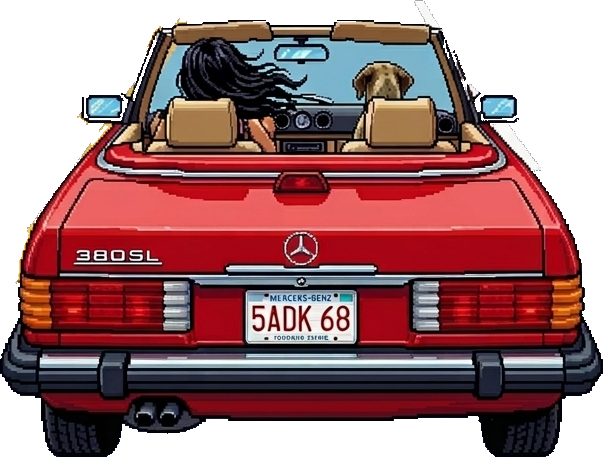
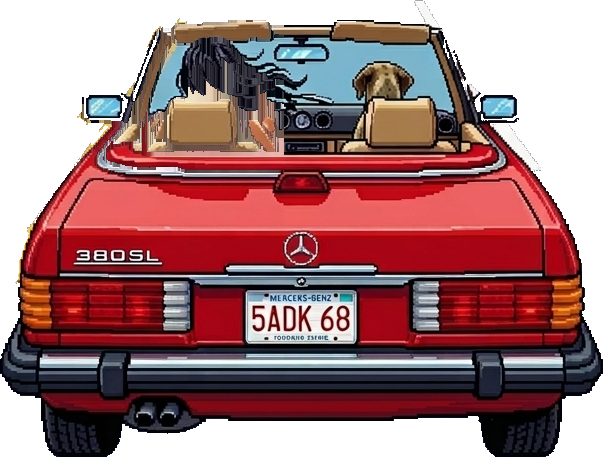
Animate Amber's hair; extract Jeep + roadside cars from mockup
- Hair: split the hero sprite into a hair-free base (car.png) plus a
  hair layer (hair.png); rotate the hair gently about the scalp each
  frame so it blows in the wind (idle breeze + more at speed)
- Traffic: extracted the rear-view Jeep Wrangler from the mockup
  (jeep.png) and use it for the 'suv' traffic type
- Scenery: extracted the yellow car (parkedcar.png) as a new roadside
  'parkedcar' sprite, added to both stages' scenery
- All extractions reuse the same flood-fill + largest-component cutout
  pipeline as the hero car, so proportions/detail match the reference

Changed region(s): [[0.1194, 0.0306, 0.4776, 0.3982]]

diff --git a/apps/outrun-me/index.html b/apps/outrun-me/index.html
@@ -105,7 +105,7 @@ const STAGES=[
     hill:'#1fb046', hill2:'#15912f', haze:'#dcf1ff',
     light:{ road:'#9fa2ad', grass:'#5fd45a', rumble:'#e3001b', lane:'#f2ebdc' },
     dark :{ road:'#82848f', grass:'#3da342', rumble:'#f3ede0' },
-    scenery:['palm','palm','palm','palm','sign','umbrella','rock','boat','store'],
+    scenery:['palm','palm','palm','palm','sign','umbrella','rock','boat','store','parkedcar'],
     cars:['carRed','carBlue','beetle','suv'] },
   { name:'BOSTON', bg:'city',
     sky:['#3a7fc4','#7fb0dc','#d6e4f0'],
@@ -113,7 +113,7 @@ const STAGES=[
     hill:'#6e80a0', hill2:'#4e5d72', haze:'#d6e4f0',
     light:{ road:'#8e9099', grass:'#6fb85f', rumble:'#c9ccd3', lane:'#f2c019' },
     dark :{ road:'#74767f', grass:'#4e9447', rumble:'#9da0a8' },
-    scenery:['tower','brownstone','exit','market','warn','sign','tower','brownstone'],
+    scenery:['tower','brownstone','exit','market','warn','sign','parkedcar','tower','brownstone'],
     cars:['taxi','beetle','suv','carBlue'] }
 ];
 
@@ -278,7 +278,8 @@ function update(dt){
   updateAudio(sp);
 }
 function spriteW(t){ switch(t){ case 'palm':case 'tower':case 'brownstone':return SPRITE_SCALE*0.8;
-  case 'boat':case 'store':case 'market':case 'suv':return SPRITE_SCALE*1.1; default:return SPRITE_SCALE*0.7; } }
+  case 'boat':case 'store':case 'market':case 'suv':return SPRITE_SCALE*1.1;
+  case 'parkedcar':return SPRITE_SCALE*0.9; default:return SPRITE_SCALE*0.7; } }
 
 /* -------------------------------- render -------------------------------- */
 function render(){
@@ -552,6 +553,10 @@ function drawSprite(t,s,fog,seed){
       ctx.fillStyle=shade('#1f8a4a',fog); ctx.fillRect(-w/2,-122*s,w,h);
       ctx.globalAlpha=fog; ctx.fillStyle='#fff'; ctx.textAlign='center'; ctx.font=`bold ${Math.max(6,13*s)}px Courier`;
       ctx.fillText('OUTRUN',0,-122*s+h*0.65); ctx.globalAlpha=1; break; }
+    case 'parkedcar':{ if(parkedImg.complete && parkedImg.naturalWidth){       // extracted roadside car
+        const w=170*s, h=w*parkedImg.naturalHeight/parkedImg.naturalWidth;
+        ctx.save(); ctx.globalAlpha=fog; ctx.imageSmoothingEnabled=true; ctx.drawImage(parkedImg,-w/2,-h,w,h); ctx.restore();
+      } break; }
     case 'taxi': drawVehicleBody('taxi',s*1.0,fog); break;   // parked taxi as scenery
   }
 }
@@ -581,7 +586,11 @@ function drawVehicle(type,x,y,scale,clip){
 }
 function drawVehicleBody(type,px,fog){
   const o=Math.max(1.2,px*1.6);                                  // dark keyline thickness
-  if(type==='suv'){ const w=110*px,h=78*px;
+  if(type==='suv'){
+    if(jeepImg.complete && jeepImg.naturalWidth){                              // extracted Jeep (rear)
+      const w=126*px, h=w*jeepImg.naturalHeight/jeepImg.naturalWidth;
+      ctx.imageSmoothingEnabled=true; ctx.drawImage(jeepImg,-w/2,-h,w,h); return; }
+    const w=110*px,h=78*px;
     ctx.fillStyle='#0a0b0d'; ctx.fillRect(-w/2-o,-h-o,w+o*2,h*0.62+o);          // outline
     ctx.fillStyle='#3a4049'; ctx.fillRect(-w/2,-h,w,h*0.22);                     // roof (lit)
     ctx.fillStyle='#2b2f36'; ctx.fillRect(-w/2,-h*0.78,w,h*0.38);               // body
@@ -618,6 +627,9 @@ function drawVehicleBody(type,px,fog){
 /* ------------------------ player car (380SL + crew) --------------------- */
 function rr(x,y,w,h,r){ ctx.beginPath(); ctx.roundRect(x,y,w,h,r); ctx.fill(); }
 const carImg=new Image(); carImg.src='car.png';
+const hairImg=new Image(); hairImg.src='hair.png';
+const jeepImg=new Image(); jeepImg.src='jeep.png';
+const parkedImg=new Image(); parkedImg.src='parkedcar.png';
 function drawPlayer(seg,pct){
   const steer=keys.left?-1:keys.right?1:0;
   const updown=seg.p1.world.y-seg.p2.world.y;
@@ -631,9 +643,17 @@ function drawPlayer(seg,pct){
   ctx.fillStyle='rgba(0,0,0,0.32)'; ctx.beginPath(); ctx.ellipse(0,-bh*0.015,bw*0.50,bh*0.06,0,0,7); ctx.fill();
   // 380SL hero sprite (Amber + the pup) — extracted reference art
   if(carImg.complete && carImg.naturalWidth){
-    const iw=bw, ih=iw*carImg.naturalHeight/carImg.naturalWidth;
+    const iw=bw, ih=iw*carImg.naturalHeight/carImg.naturalWidth, sc=iw/carImg.naturalWidth;
     ctx.imageSmoothingEnabled=true;
     ctx.drawImage(carImg,-iw/2,-ih,iw,ih);
+    // subtle wind in Amber's hair — rotate the hair layer about the scalp
+    if(hairImg.complete && hairImg.naturalWidth){
+      const wave=Math.sin(t*0.005)*0.05*wind + Math.sin(t*0.013)*0.014;
+      const pX=-iw/2+204*sc, pY=-ih+165*sc;
+      ctx.save(); ctx.translate(pX,pY); ctx.rotate(wave); ctx.translate(-pX,-pY);
+      ctx.drawImage(hairImg,-iw/2+70*sc,-ih+20*sc,214*sc,152*sc);
+      ctx.restore();
+    }
     if(keys.down){                                   // brake-light glow
       ctx.save(); ctx.globalCompositeOperation='lighter'; ctx.globalAlpha=0.55; ctx.fillStyle='#ff1410';
       ctx.fillRect(-iw*0.43,-ih*0.40,iw*0.22,ih*0.06); ctx.fillRect(iw*0.21,-ih*0.40,iw*0.22,ih*0.06);